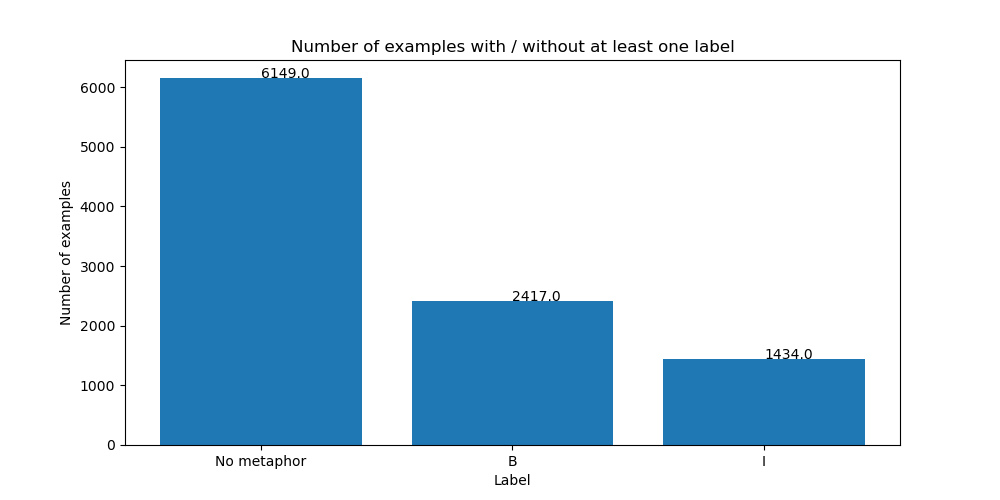
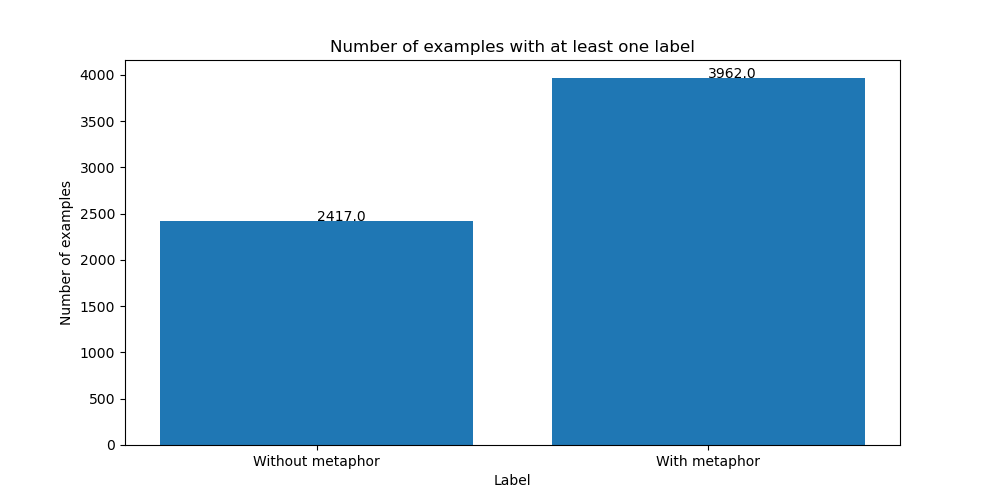
Data Exploration

diff --git a/DataExploration.py b/DataExploration.py
@@ -15,9 +15,9 @@ dataset = load_dataset('MetaphorDataset.py', split='all')
 # Calculate statistics
 label_hist = np.zeros([3])
 word_dict = {}
-examples_with_metaphor = np.zeros([3])
+examples_with_metaphor = np.zeros([2])
 for example in dataset:
-    bool_metaphor = np.zeros([3])
+    bool_metaphor = False
     words = example['data']
     labels = example['labels']
     for label, word in zip(labels, words):
@@ -27,9 +27,12 @@ for example in dataset:
         else:
             word_dict[word][label] += 1
         label_hist[label] += 1
-        bool_metaphor[label] = True
-    for index, is_label in enumerate(bool_metaphor):
-        examples_with_metaphor[index] += int(is_label)
+        if label > 0:
+            bool_metaphor = True
+    if bool_metaphor:
+        examples_with_metaphor[0] += 1
+    else:
+        examples_with_metaphor[1] += 1
 
 
 # Plot statistics
@@ -47,14 +50,14 @@ plt.show()
 
 # Number of examples with at least one metaphor
 plt.figure(figsize=(10,5))
-plt.bar(range(3), examples_with_metaphor, align='center')
+plt.bar(range(2), examples_with_metaphor, align='center')
 # show numbers on the bars
-for i in range(3):
+for i in range(2):
     plt.text(i, examples_with_metaphor[i], str(examples_with_metaphor[i]))
-plt.xticks(range(3), ['O', 'B', 'I'])
+plt.xticks(range(2), ['Without metaphor', 'With metaphor'])
 plt.xlabel('Label')
 plt.ylabel('Number of examples')
-plt.title('Number of examples with / without at least one label')
+plt.title('Number of examples with at least one label')
 plt.show()
 
 # create a dataframe from the dictionary

diff --git a/MetaphorDataset.py b/MetaphorDataset.py
@@ -74,7 +74,7 @@ class MetaphorDataset(datasets.GeneratorBasedBuilder):
                 name=datasets.Split.TRAIN,
                 # These kwargs will be passed to _generate_examples
                 gen_kwargs={
-                    "filepath": os.path.join(data_dir, "train_full.json"),
+                    "filepath": os.path.join(data_dir, "train_rows.json"),
                     "split": "train",
                 },
             ),
@@ -82,7 +82,7 @@ class MetaphorDataset(datasets.GeneratorBasedBuilder):
                 name=datasets.Split.TEST,
                 # These kwargs will be passed to _generate_examples
                 gen_kwargs={
-                    "filepath": os.path.join(data_dir, "test_full.json"),
+                    "filepath": os.path.join(data_dir, "test_rows.json"),
                     "split": "test"
                 },
             ),
@@ -90,7 +90,7 @@ class MetaphorDataset(datasets.GeneratorBasedBuilder):
                 name=datasets.Split.VALIDATION,
                 # These kwargs will be passed to _generate_examples
                 gen_kwargs={
-                    "filepath": os.path.join(data_dir, "validation_full.json"),
+                    "filepath": os.path.join(data_dir, "validation_rows.json"),
                     "split": "validation",
                 },
             ),
